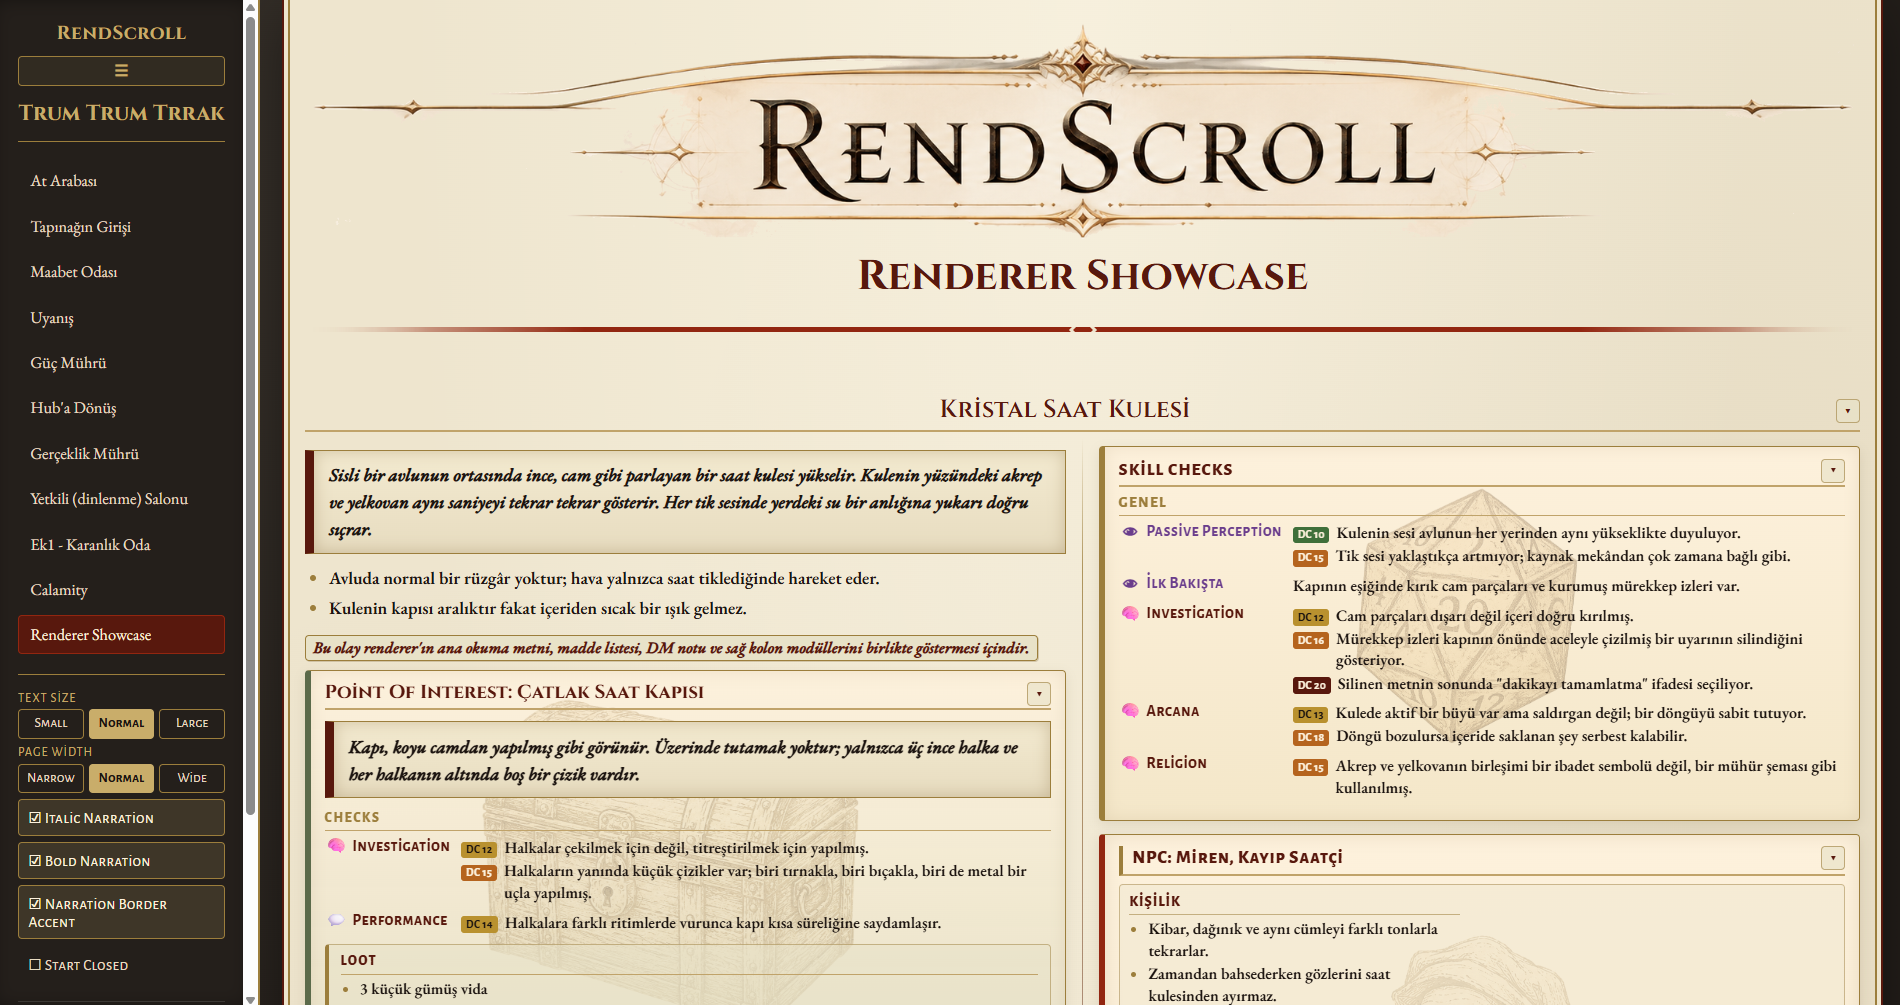
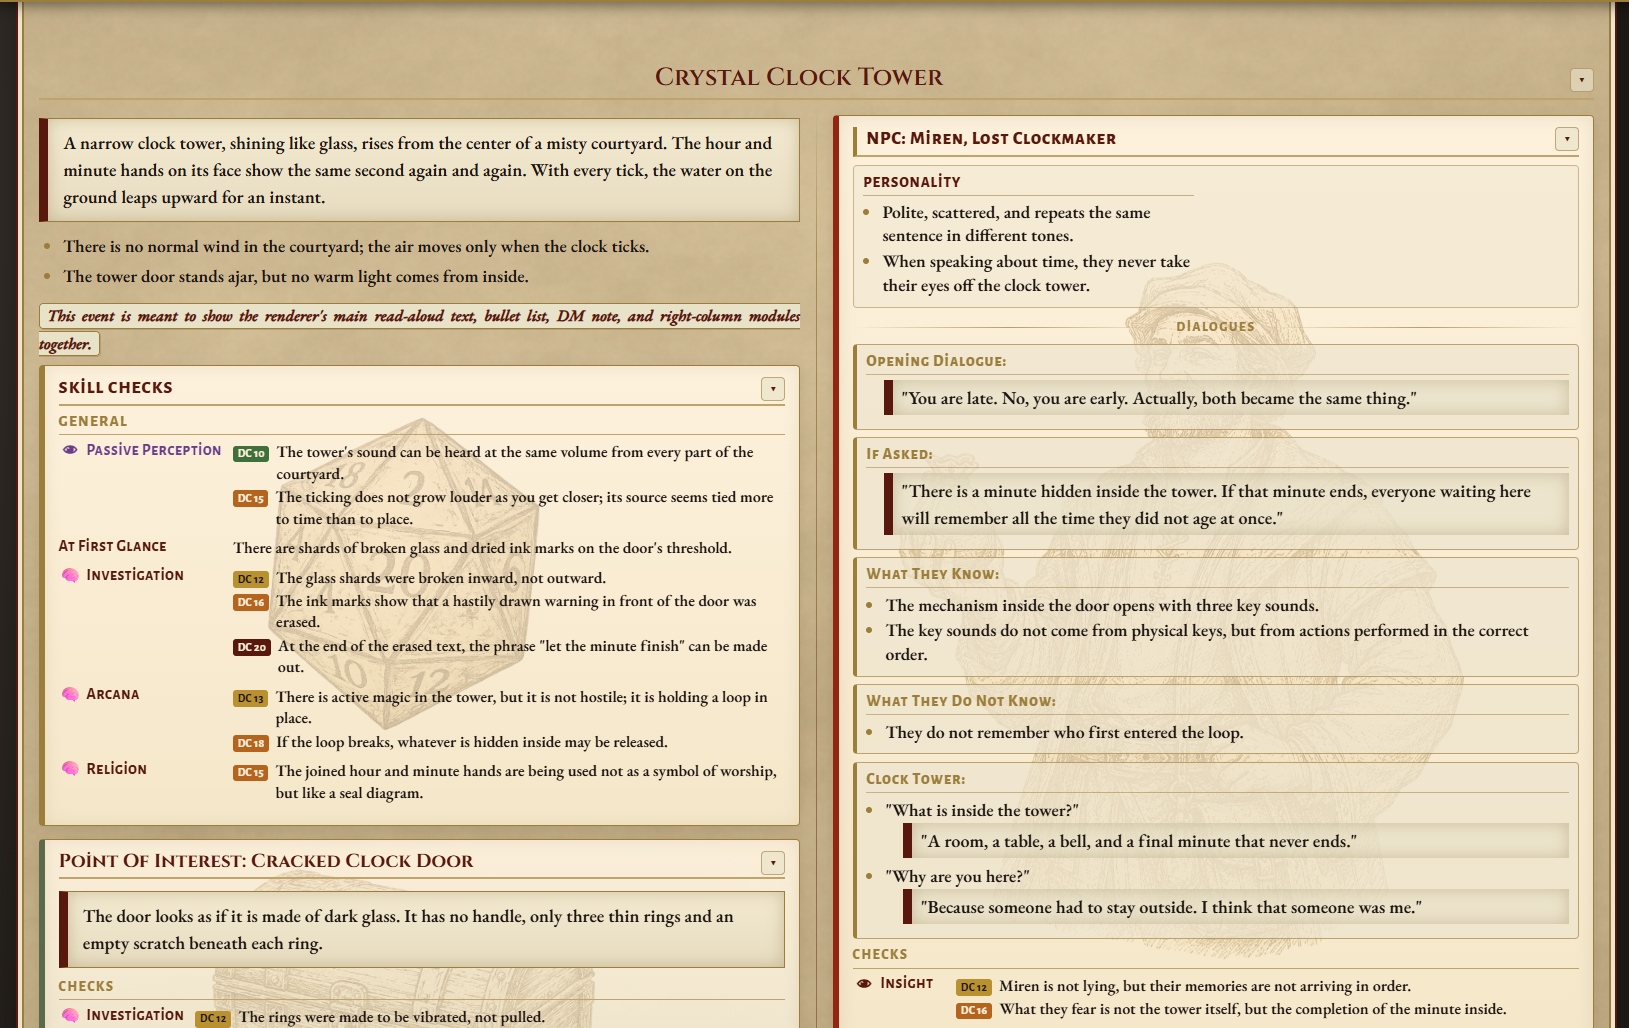
better page

diff --git a/Campaign/showcase.md b/Campaign/showcase.md
@@ -1,0 +1,153 @@
+# Renderer Showcase
+
+---
+
+## Crystal Clock Tower
+> A narrow clock tower, shining like glass, rises from the center of a misty courtyard. The hour and minute hands on its face show the same second again and again. With every tick, the water on the ground leaps upward for an instant.
+- There is no normal wind in the courtyard; the air moves only when the clock ticks.
+- The tower door stands ajar, but no warm light comes from inside.
+
+`This event is meant to show the renderer's main read-aloud text, bullet list, DM note, and right-column modules together.`
+
+### Skill Checks
+General:
+- Passive Perception:
+> 10: The tower's sound can be heard at the same volume from every part of the courtyard.
+> 15: The ticking does not grow louder as you get closer; its source seems tied more to time than to place.
+- At First Glance:
+> There are shards of broken glass and dried ink marks on the door's threshold.
+- Investigation:
+> 12: The glass shards were broken inward, not outward.
+> 16: The ink marks show that a hastily drawn warning in front of the door was erased.
+> 20: At the end of the erased text, the phrase "let the minute finish" can be made out.
+- Arcana:
+> 13: There is active magic in the tower, but it is not hostile; it is holding a loop in place.
+> 18: If the loop breaks, whatever is hidden inside may be released.
+- Religion:
+> 15: The joined hour and minute hands are being used not as a symbol of worship, but like a seal diagram.
+
+
+### Object: Cracked Clock Door
+> The door looks as if it is made of dark glass. It has no handle, only three thin rings and an empty scratch beneath each ring.
+
+Checks:
+- Investigation:
+> 12: The rings were made to be vibrated, not pulled.
+> 15: There are small scratches beside the rings; one was made with a fingernail, one with a knife, and one with a metal point.
+- Performance:
+> 14: Striking the rings in different rhythms makes the door briefly turn transparent.
+Loot:
+- 3 small silver screws
+- Broken pocket watch cover
+- Thin metal strip inscribed with "The final minute is a debt"
+
+### item: Backflowing Hourglass
+Type: Wondrous Item
+Rarity: 2
+Attunement: Required
+> The black sand in the upper chamber of this palm-sized hourglass flows upward. Its glass is cold, and when viewed up close, the grains inside shine like tiny stars.
+Properties:
+- Once per long rest, after failing a Dexterity saving throw, you can reroll the die.
+- You must use the new result.
+- When used, the hourglass turns completely black for 1 minute.
+
+### NPC: Miren, Lost Clockmaker
+Side: R
+Personality:
+- Polite, scattered, and repeats the same sentence in different tones.
+- When speaking about time, they never take their eyes off the clock tower.
+Opening Dialogue:
+> "You are late. No, you are early. Actually, both became the same thing."
+If Asked:
+> "There is a minute hidden inside the tower. If that minute ends, everyone waiting here will remember all the time they did not age at once."
+What They Know:
+- The mechanism inside the door opens with three key sounds.
+- The key sounds do not come from physical keys, but from actions performed in the correct order.
+What They Do Not Know:
+- They do not remember who first entered the loop.
+Clock Tower:
+- "What is inside the tower?"
+> "A room, a table, a bell, and a final minute that never ends."
+- "Why are you here?"
+> "Because someone had to stay outside. I think that someone was me."
+Checks:
+- Insight:
+> 12: Miren is not lying, but their memories are not arriving in order.
+> 16: What they fear is not the tower itself, but the completion of the minute inside.
+- Medicine:
+> 14: They do not look old, but their pulse is irregular; their heart sometimes seems to repeat a beat.
+
+### Unexpected:
+Side: R
+- If the players try to break the door: the glass does not break; instead, the ticking in the courtyard speeds up for one round.
+- If they attack Miren: Miren is harmed, but returns to their old place at the next tick.
+- If they leave the tower without opening the door: they exit the courtyard, but begin the next scene feeling 1 minute late.
+Failed check:
+- Failed Investigation: the door can still be examined; only the correct order of the rings remains unclear.
+
+---
+
+## The Final Minute Inside
+> The door turns transparent, and the moment you step inside, the mist in the courtyard disappears. You find yourself in a narrow room with a high ceiling. In the center of the room is a large table, on the table is a brass bell, and behind the bell is a shadow of sand flowing in reverse.
+
+- Everything inside appears clear; nothing trembles except the shadow.
+- The shelves on the walls hold hundreds of blank labels.
+
+`This event is meant to show the combat card, combat moved to the right column, echo, and the second skill check panel.`
+
+### Skill Checks
+- At First Glance:
+> The bell has no clapper; touching it may not be enough to make it ring.
+- Arcana:
+> 12: The sand shadow is not alive, but it reacts.
+> 17: If the bell rings, the shadow will take shape for a short time.
+- History:
+> 14: The blank labels resemble an archive system; names may have been stored here.
+> 18: The blank labels suggest the records were not erased, but have not yet been written.
+
+### Combat: Minute Shadow
+Side: R
+> The bell trembles on its own. The black sand behind the table whips upward and becomes a faceless, human-sized shadow.
+
+`This fight should be brief; its purpose is to show the combat card's subsections.`
+
+Stat:
+- AC 13 | HP 32 | Speed 9m
+- Attack: Shadow Touch +5, 1d8 necrotic
+- Weak save: Wisdom
+Tactics:
+- It moves toward the character who spoke most recently.
+- When reduced to half health, it tries to protect the bell.
+Special Mechanic:
+- At the start of each round, the clock in the room ticks once.
+- On the third tick, the shadow teleports to its previous position.
+Checks:
+- Arcana:
+> 13: The shadow feeds not on the bell, but on the sound the bell has not completed.
+> 18: If the bell is silenced, the shadow cannot attack for 1 round.
+- Insight:
+> 15: The shadow is not angry; it acts like a remnant trying to finish its task.
+
+
+### Unexpected:
+Side: R
+- If the players ring the bell: the Minute Shadow appears immediately, or if combat has already begun, it grows stronger for 1 round.
+- If the players wrap the bell in sand to silence it: the shadow does not attack for 1 round, then burns the sand away.
+- If the players speak with the shadow: it only repeats the sentence "the minute must be completed."
+Failed check:
+- Failed Arcana: the shadow's source cannot be understood, but combat or progress is not blocked.
+
+### Object: Brass Bell
+> The bell looks small and plain. There is no writing on it, but when its edge is touched, every shelf in the room trembles faintly at the same time.
+BG: angel
+Checks:
+- Investigation:
+> 12: There is a socket beneath the bell made for a clapper, but the clapper is missing.
+> 16: The socket is shaped for a material more like bone than metal.
+- Sleight of Hand:
+> 14: It is possible to remove the bell without ringing it.
+Loot:
+- Brass bell
+- Blank name label
+- Thin silver chain
+

diff --git a/README.md b/README.md
@@ -38,6 +38,41 @@ No accounts. No cloud. No setup ritual. Just your world, opened like a book.
 
 ---
 
+## 🆕 New in this chapter
+
+RendScroll grew up. What started as a renderer is now a **complete DM workbench** —
+write, build, reuse, and run a fight, all from the same book.
+
+- **🖋️ A real visual editor — no Markdown required.** Flip on edit mode and shape any
+  card through clean forms: pick the type, fill the fields, drop it exactly where it
+  belongs. **Drag to reorder, right-click for actions,** and an **insert menu** that
+  knows every card RendScroll speaks. Prefer raw text? It's still just Markdown
+  underneath — both halves stay in perfect sync.
+
+- **⚔️ Combat helper.** Give an encounter its enemies and
+  a **Start Combat** button appears. Roll into **initiative and turn order**, then
+  **track every enemy's HP** as the blades fall — No attack roller or bloated features.
+
+- **🗂️ An Item Library that ends copy-paste.** Write a magic item *once*, then summon
+  it anywhere with `[item=Name]` or weave it inline with `[link=Name]`. Edit the
+  source and **every scene updates with it.** One source of truth for your whole
+  campaign.
+
+- **🐉 An Enemy Library of reusable stat blocks.** Build a creature once and call it
+  into any combat. Browse, add, and edit your bestiary from the sidebar — your
+  monsters travel with you from session to session.
+
+- **🧭 A sidebar that runs the show.** Collapsible **Campaign · Items · Enemies**
+  sections, each with a clear **“+ New”** action. Spin up a fresh page, item, or
+  enemy without ever leaving the book — and collapse the whole rail to a row of
+  glowing glyphs when you want the table to breathe.
+
+- **🎨 Iconography that reads at a glance.** Standardized **damage-type icons**, dice,
+  AC/HP/initiative crests — a fireball *looks* like fire, a slash *looks* like steel,
+  so stat blocks parse in the half-second you actually have.
+
+---
+
 ## ⚔️ Why it feels good at the table
 
 - **The page reads itself, in play order.** Scenes flow top to bottom, event by
@@ -52,17 +87,23 @@ No accounts. No cloud. No setup ritual. Just your world, opened like a book.
   yours.
 
 - **Every moment has a card that knows what it is.** NPCs, combat, skill checks,
-  items, spells, objects, and the unexpected each carry their own look and color —
-  so a fight never reads like a footnote.
+  items, spells, objects, narration, and the unexpected each carry their own look and
+  color — so a fight never reads like a footnote.
 
-- **Tune the mood, live.** Text size, page width, narration style, cards open or
-  closed — set the table's atmosphere with a click, and it remembers.
+- **Skill checks that color their own stakes.** Difficulty bands shade themselves —
+  **easy green, climbing through gold and orange to a deadly bordeaux** — so the table
+  feels the risk before you say a word.
+
+- **Tune the mood, live.** Text size, line spacing, reader font, page width, narration
+  style, cards open or closed, **dark or light chrome,** even a **custom parchment of
+  your own** — set the table's atmosphere with a click, and it remembers across
+  sessions.
 
 - **Write, edit, and print without leaving.** Adjust a scene right in the page, then
-  export a clean PDF to lay beside your dice.
+  **export a clean PDF** to lay beside your dice.
 
-- **Yours, and offline.** It runs entirely on your machine. Your world never leaves
-  the room.
+- **Yours, and offline.** It runs entirely on your machine. No accounts, no cloud.
+  Your world never leaves the room.
 
 ---
 
@@ -140,7 +181,28 @@ Properties:
 ```
 
 …and RendScroll turns it into a glowing read-aloud box, a hidden DM note only you can
-see, and a combat card with its stats laid out at a glance. That's the whole spell.
+see, color-coded skill checks, and a combat card with its stats laid out at a glance.
+That's the whole spell.
+
+**Don't want to type the syntax?** Flip on the editor and build the very same cards
+through forms — RendScroll writes the Markdown for you.
+
+---
+
+## 🃏 The cards in your hand
+
+Every kind of moment has a card that already knows how to look the part:
+
+| Card | What it's for |
+| --- | --- |
+| **Narrative** | Read-aloud boxes that glow apart from your private notes |
+| **NPC** | Personalities, dialogue trees, and quick checks in one block |
+| **Skill Checks** | DC-by-DC reveals, shaded by difficulty |
+| **Object** | Interactables, their checks, and the loot they hide |
+| **Combat** | Stat blocks with a **live initiative + HP runner** |
+| **Item** | Magic items, drawn from your reusable **Item Library** |
+| **Ability / Spell** | Costs, ranges, cooldowns, and effects |
+| **Unexpected** | The “what if the players…” branches you keep in your back pocket |
 
 ---
 
@@ -148,7 +210,7 @@ see, and a combat card with its stats laid out at a glance. That's the whole spe
 
 1. Run **`launcher.py`** (or the bundled **`RendScroll.exe`**).
 2. It quietly checks your campaign files, then opens RendScroll in its own window.
-3. Pick a scene from the side and start reading.
+3. Pick a scene from the side and start reading — or hit **edit** and start building.
 
 That's it — you're at the table.
 